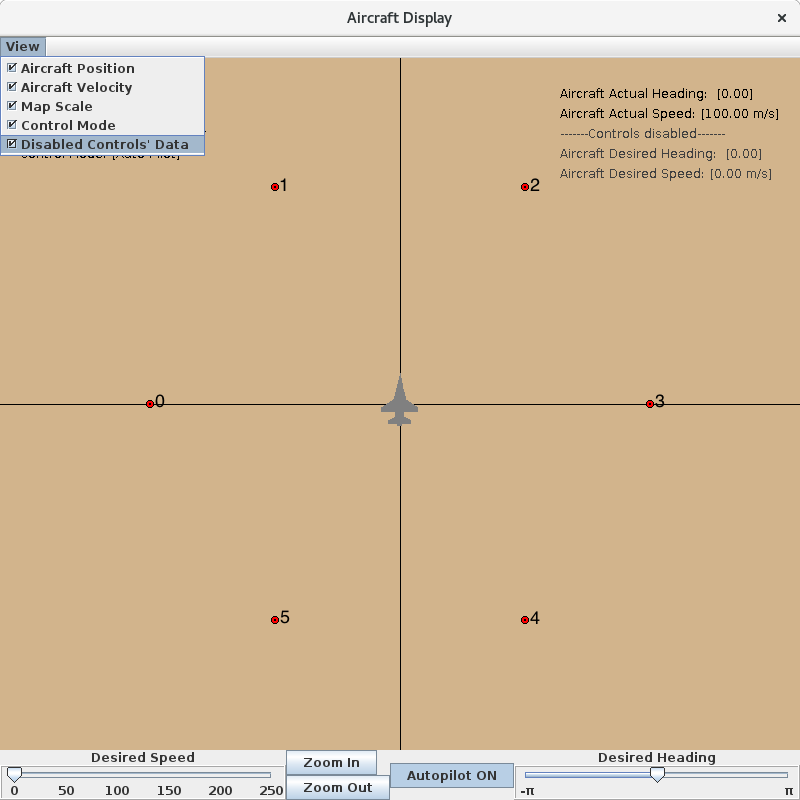
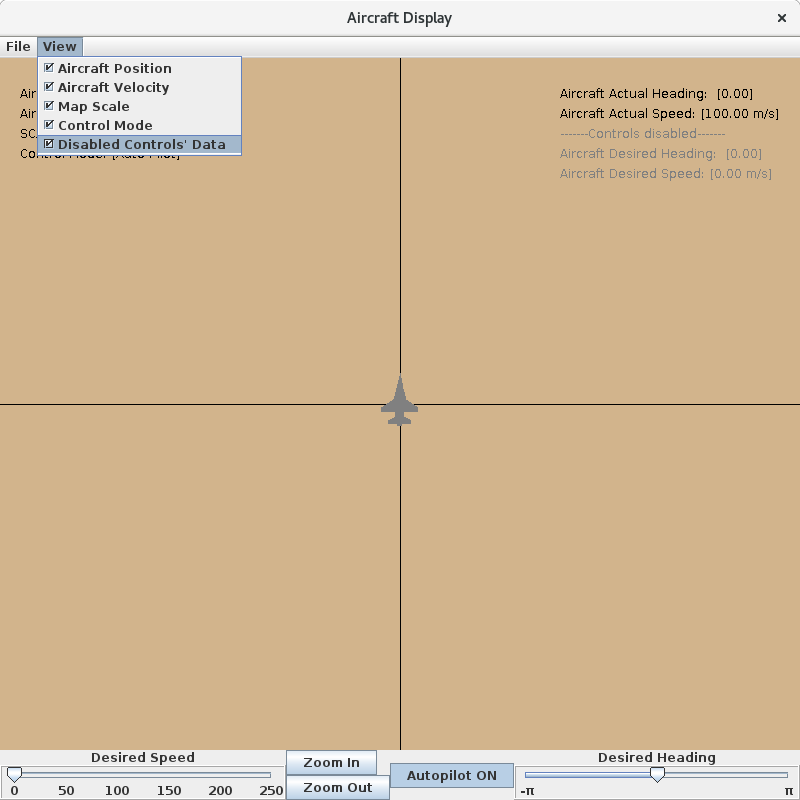
Updated Documentation

diff --git a/trick_sims/SIM_aircraft/README.md b/trick_sims/SIM_aircraft/README.md
@@ -64,6 +64,11 @@ Each line should have three pieces of data, separated by commas. The first two a
 
 ### Graphics Client Menu
 
+#### File
+
+The `File` menu allows the user to open a waypoint input file, save the current waypoint list to a new file, or clear the existing waypoint list.
+![](images/GraphicsClient_FileOptions.png)
+
 #### View
 
 The `View` menu on the menu bar allows the user to choose the information displayed by the client.
